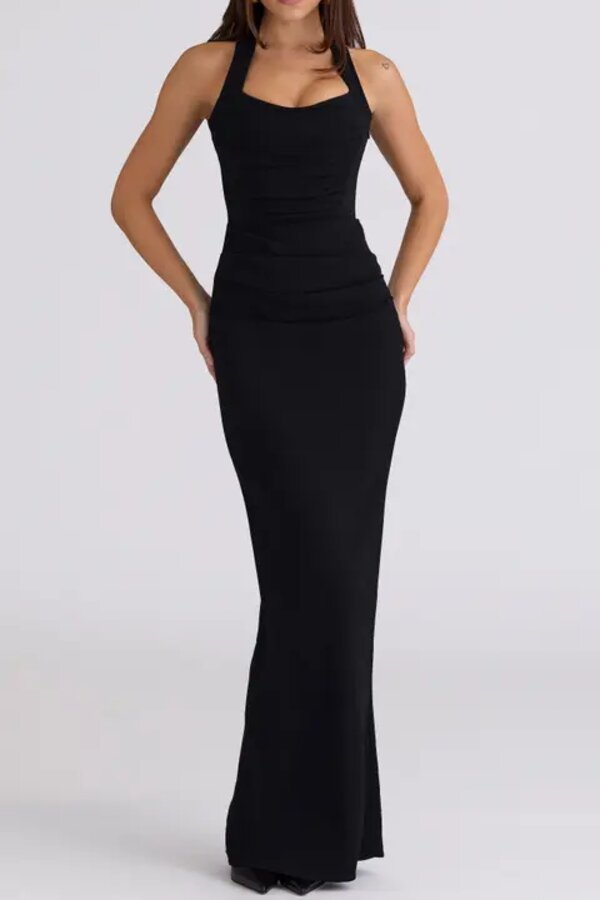
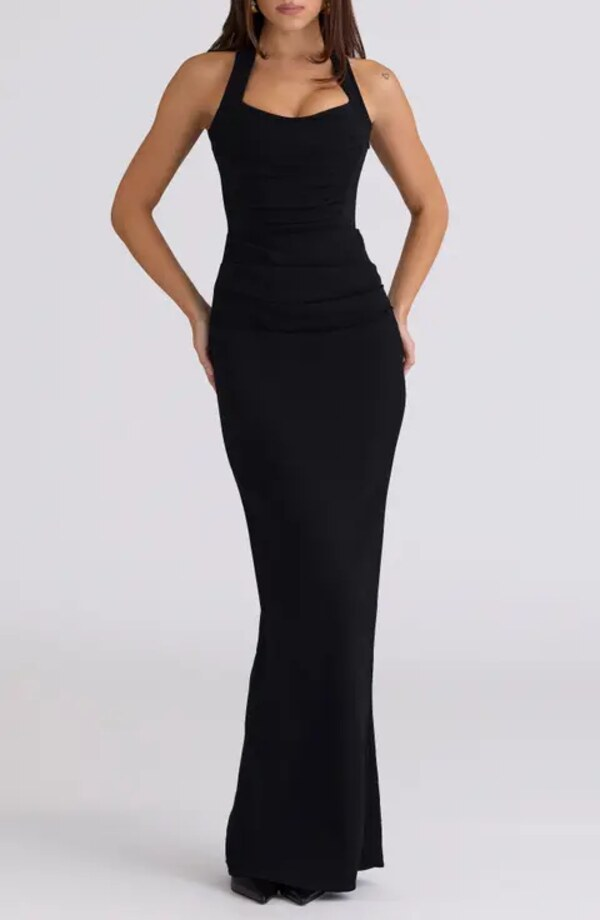
Fix virtual try-on images: use full content without cropping
Resize tryon images to 600x920 preserving all content instead of
force-cropping to 600x900. Update aspect ratio in feature showcase.

Made-with: Cursor

diff --git a/app/components/feature-showcase.tsx b/app/components/feature-showcase.tsx
@@ -75,7 +75,7 @@ const features: Feature[] = [
     before: "/images/demos/tryon-before.jpg",
     after: "/images/demos/tryon-after.jpg",
     width: 600,
-    height: 900,
+    height: 920,
   },
 ];
 
